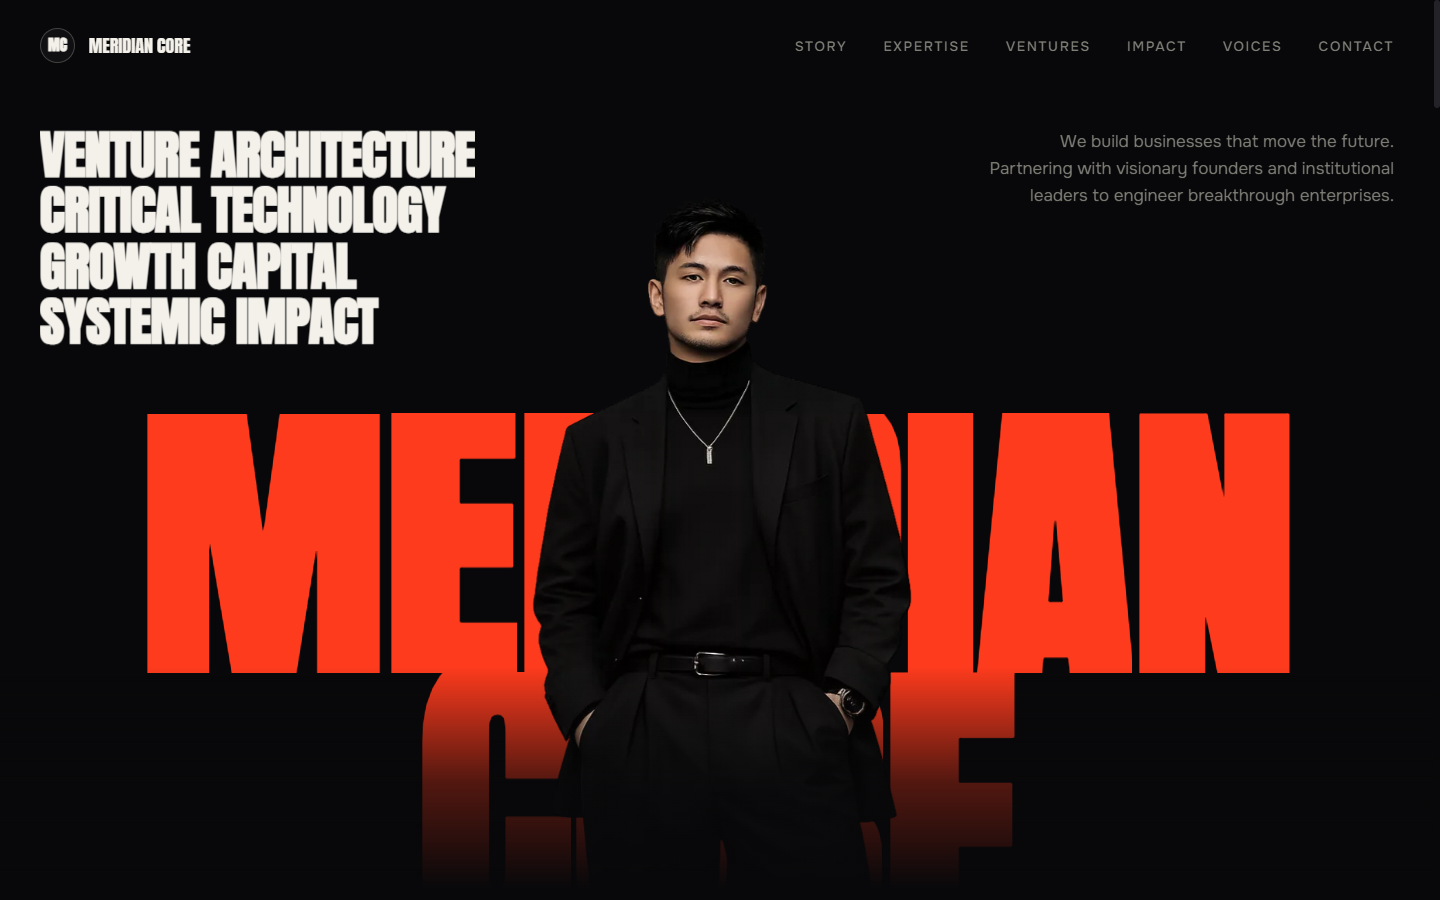
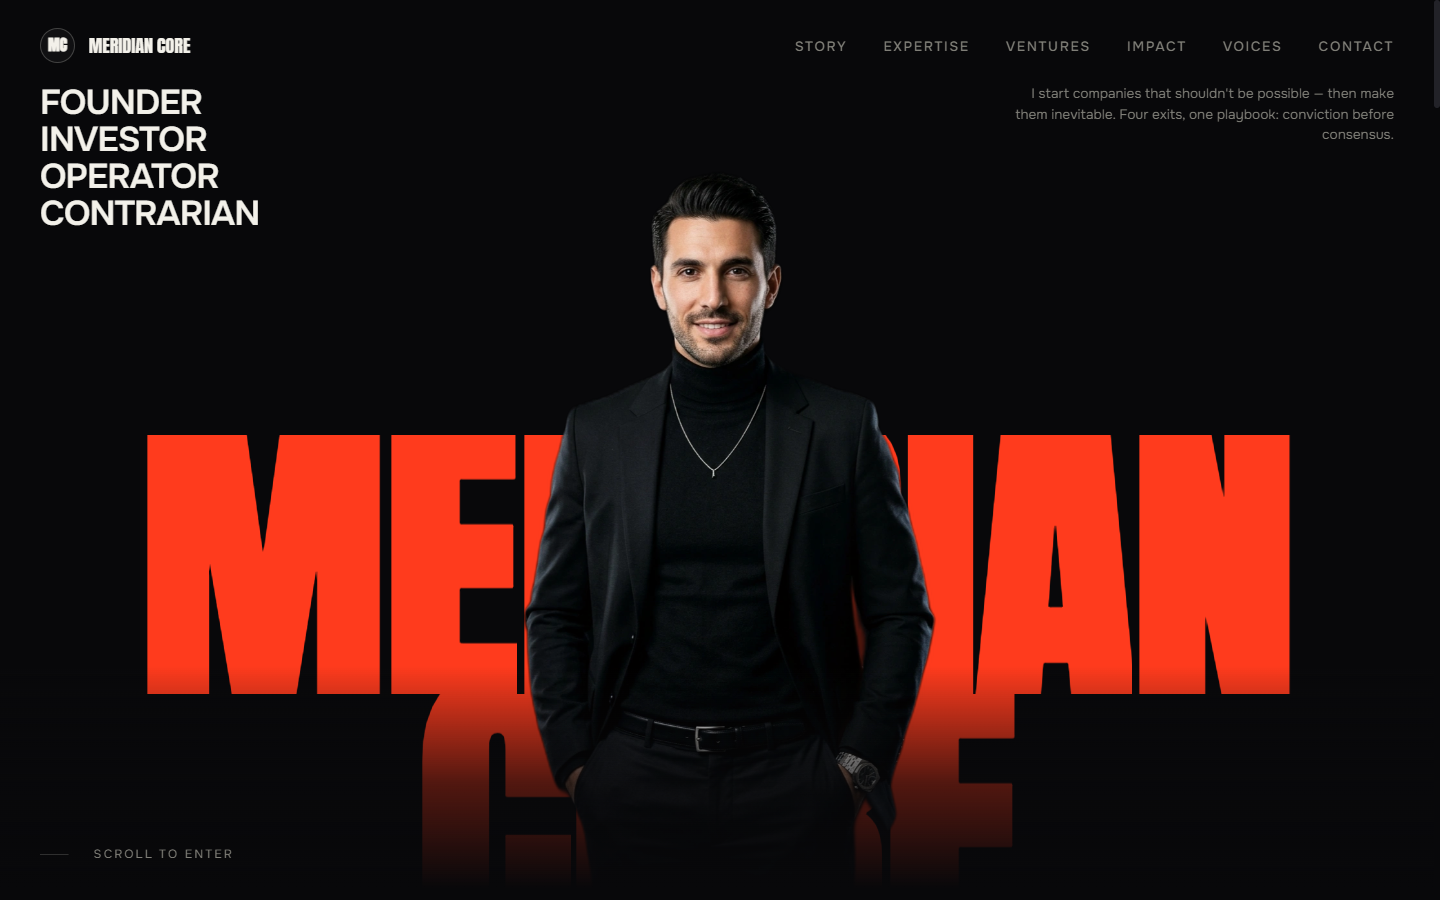
feat: initialize meridian-core project structure with cinematic portfolio theme

diff --git a/meridian-core/public/index.html b/meridian-core/public/index.html
@@ -121,16 +121,14 @@
 
       <!-- Top Content Row -->
       <div class="hero-top">
-        <h2 id="hero-roles" class="hero-roles"
-          aria-label="Venture Architecture Critical Technology Growth Capital Systemic Impact">
-          <span class="role-line"><span class="role-inner">VENTURE ARCHITECTURE</span></span>
-          <span class="role-line"><span class="role-inner">CRITICAL TECHNOLOGY</span></span>
-          <span class="role-line"><span class="role-inner">GROWTH CAPITAL</span></span>
-          <span class="role-line"><span class="role-inner">SYSTEMIC IMPACT</span></span>
+        <h2 id="hero-roles" class="hero-roles" aria-label="Founder Investor Operator Contrarian">
+          <span class="role-line"><span class="role-inner">FOUNDER</span></span>
+          <span class="role-line"><span class="role-inner">INVESTOR</span></span>
+          <span class="role-line"><span class="role-inner">OPERATOR</span></span>
+          <span class="role-line"><span class="role-inner">CONTRARIAN</span></span>
         </h2>
         <p id="hero-desc" class="hero-desc">
-          We build businesses that move the future. Partnering with visionary founders and institutional leaders to
-          engineer breakthrough enterprises.
+          I start companies that shouldn't be possible — then make them inevitable. Four exits, one playbook: conviction before consensus.
         </p>
       </div>
 
@@ -143,7 +141,7 @@
       <!-- Full-Height Cutout Founder Visual (Layered in Front) -->
       <div id="hero-portrait" class="hero-portrait">
         <figure class="liquid bare fill">
-          <img id="hero-portrait-img" src="/assets/images/marcus-portrait.webp"
+          <img id="hero-portrait-img" src="/assets/images/founder-portrait.webp?v=2"
             alt="Julian Vance, Founder &amp; Managing Partner" class="portrait-media" loading="eager"
             style="filter: url(#liqHero);" />
         </figure>

diff --git a/meridian-core/public/css/style.css b/meridian-core/public/css/style.css
@@ -421,20 +421,22 @@ body.bg-main {
 .hero-top {
   position: relative;
   z-index: 30;
-  padding: 8rem var(--gutter) 0;
+  padding: clamp(5.25rem, 8.5vh, 6.75rem) var(--gutter) 0;
   display: flex;
   flex-direction: row;
   justify-content: space-between;
   align-items: flex-start;
+  gap: 2rem;
 }
 
 .hero-roles {
-  font-family: var(--font-display);
-  font-size: var(--fs-h2);
+  font-family: var(--font-sans);
+  font-size: clamp(1.4rem, 2.5vw, 2.15rem);
+  font-weight: 600;
   color: var(--foreground);
-  line-height: 1.05;
+  line-height: 1.08;
   text-transform: uppercase;
-  letter-spacing: -0.01em;
+  letter-spacing: -0.025em;
 }
 
 .role-line {
@@ -454,11 +456,11 @@ body.bg-main {
 }
 
 .hero-desc {
-  max-width: 26rem;
+  max-width: 24rem;
   font-family: var(--font-sans);
-  font-size: var(--fs-body);
+  font-size: clamp(0.85rem, 0.95vw, 0.925rem);
   color: var(--muted);
-  line-height: 1.6;
+  line-height: 1.5;
   text-align: right;
   opacity: 0;
   transform: translateY(16px);
@@ -487,7 +489,7 @@ body.bg-main {
   letter-spacing: -0.01em;
   text-transform: uppercase;
   user-select: none;
-  transform: translateY(6%);
+  transform: translateY(10%);
 }
 
 .hn-line {
